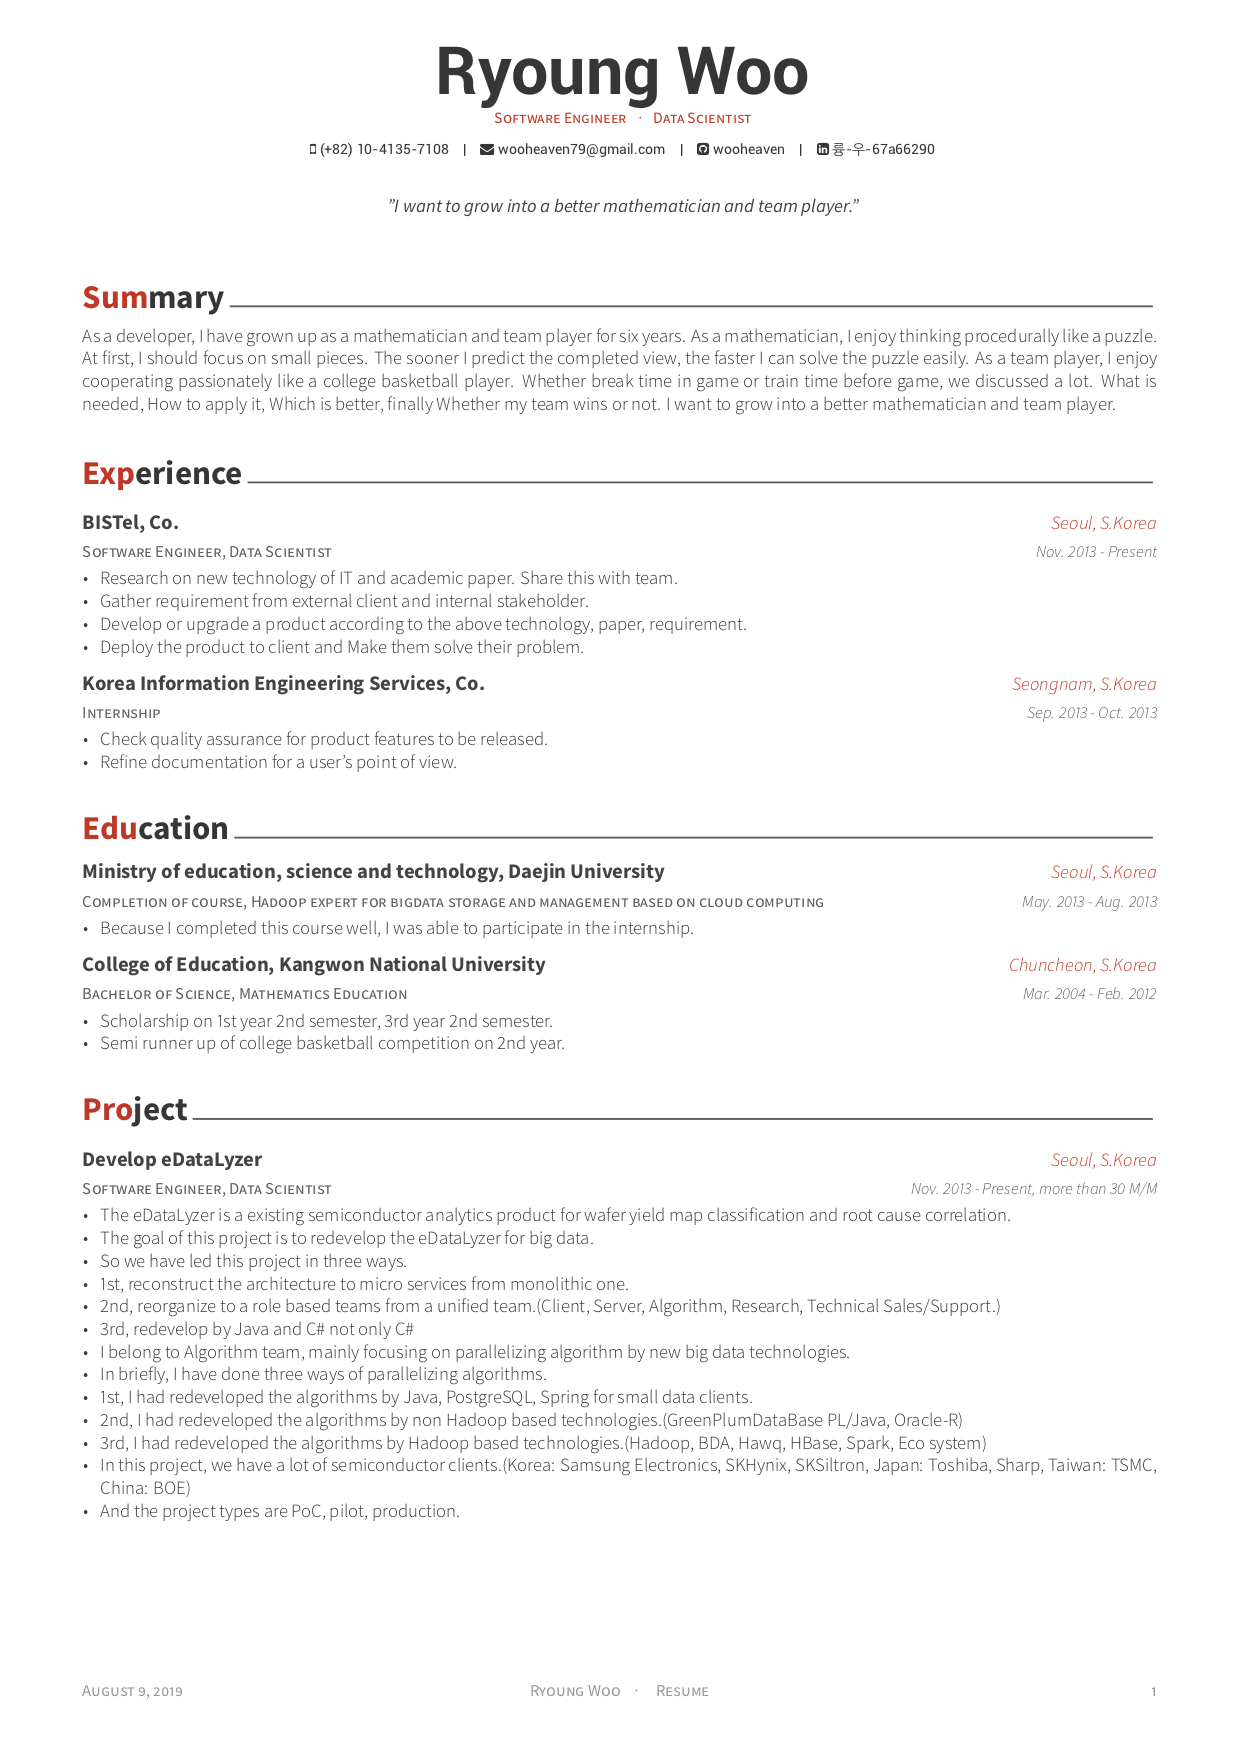
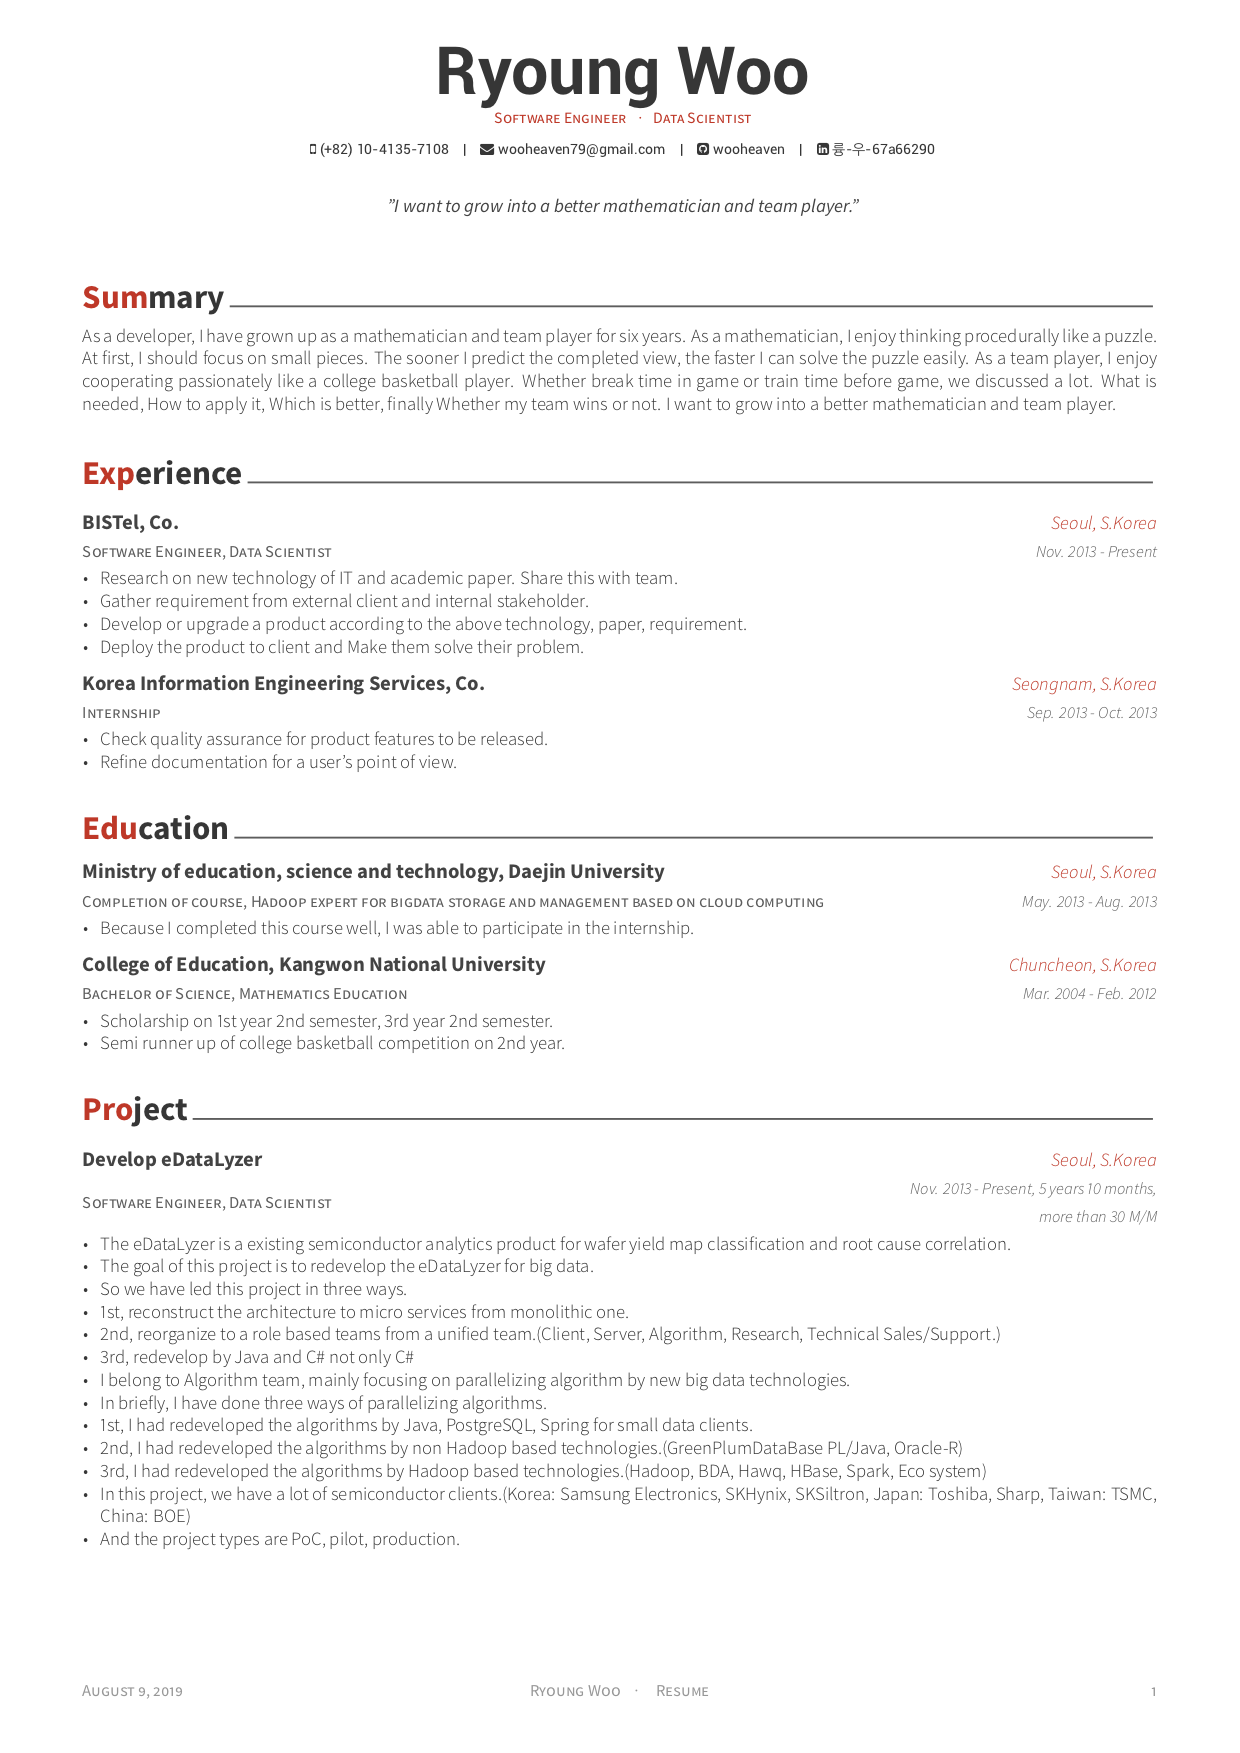
#18-modify-project-9 ``` modified:   examples/resume-0.png modified:   examples/resume-1.png modified:   examples/resume.pdf modified:   examples/resume/project.tex ```

diff --git a/examples/resume/project.tex b/examples/resume/project.tex
@@ -14,7 +14,7 @@
     {Software Engineer, Data Scientist} % Role
     {Develop eDataLyzer} % Event
     {Seoul, S.Korea} % Location
-    {Nov. 2013 - Present, more than 30 M/M} % Date(s)
+    {Nov. 2013 - Present, 5 years 10 months, more than 30 M/M} % Date(s)
     {
       \begin{cvitems} % Description(s)
         \item {The eDataLyzer is a existing semiconductor analytics product for wafer yield map classification and root cause correlation.}
@@ -62,7 +62,7 @@
     {Software Engineer} % Role
     {Develop Matrix Profile on Transfer System} % Event
     {Seoul, S.Korea} % Location
-    {Jul. 2017 - Dec. 2017, 5 months, 2 M/M} % Date(s)
+    {Jul. 2017 - Dec. 2017, 6 months, 2 M/M} % Date(s)
     {
       \begin{cvitems} % Description(s)
         \item {The goal of this project is to predict a shutdown of motor based on time series sensed data.}
